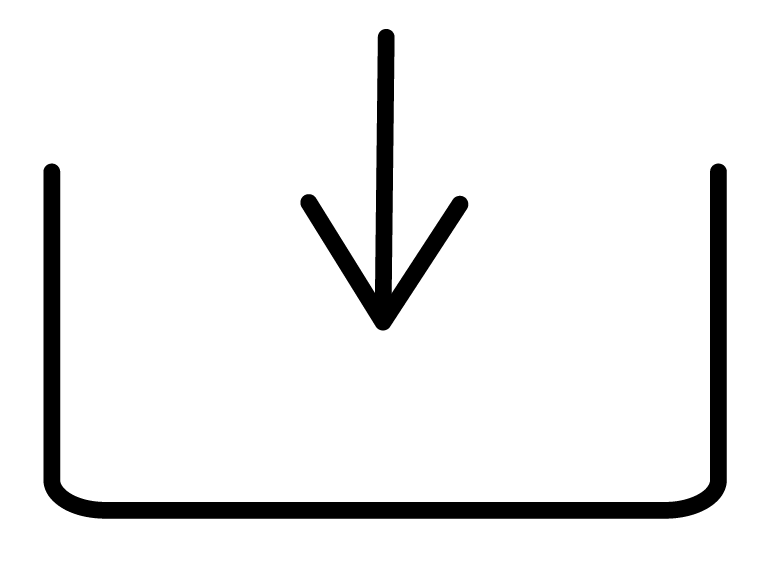
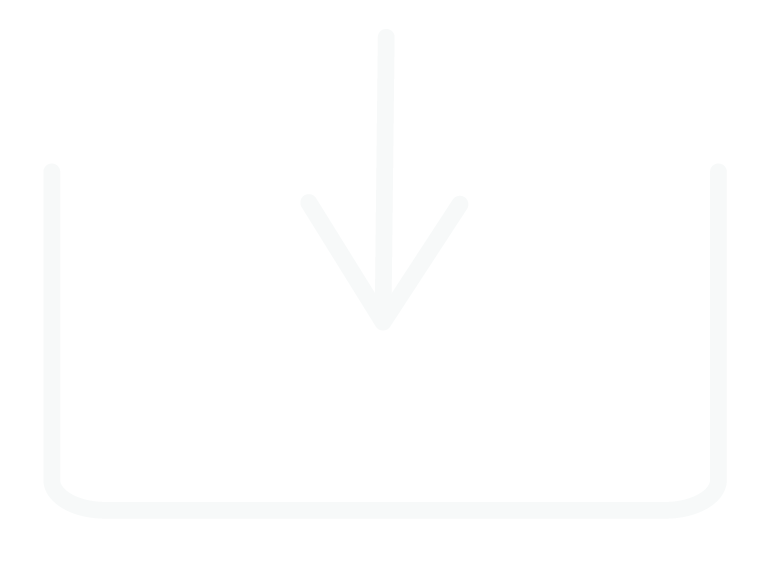
Eerste versie met kleur

Changed region(s): [[0.0301, 0.2718, 0.9621, 0.9361], [0.3908, 0.0302, 0.6314, 0.6039]]

diff --git a/src/pages/stations/[stationId].js b/src/pages/stations/[stationId].js
@@ -1,8 +1,6 @@
 import Image from 'next/image';
 import Free from '../../../public/Free.png';
 import Empty from '../../../public/Empty.png';
-import Back from '../../../public/Back.png';
-import Link from 'next/link';
 
 import useNetwork from '@/data/network';
 import {useRouter} from 'next/router';
@@ -39,16 +37,7 @@ export default function Home(){
               alt="Empty slots"
               />
               <p className={styles.Text}>Empty slots: {station.empty_slots}</p>
-            </div>
-
-            <Link href="/filter">
-              <button className={styles.BackButton}> 
-                <Image className={styles.Back}
-                src ={Back} 
-                alt="Back"
-                />
-              </button>
-            </Link>   
+            </div> 
 
             </div>
         </main>

diff --git a/src/styles/FilterStation.module.css b/src/styles/FilterStation.module.css
@@ -1,30 +1,3 @@
-.Header{
-    background-color: #D9D9D9;
-    padding: 1.5vw;
-    padding-left: 2vw;
-    padding-top: 2vw;
-}
-
-.Logo{
-    height: 13vw;
-    width: auto;
-}
-
-.BackButton {
-    padding: 1.5vw;
-    width: 20%;
-    text-decoration: none;
-    border: none;
-    border-radius: 2vw;
-    background-color: #D9D9D9;
-    margin-top: 6vw;
-}
-
-.Back{
-    width: 7.5vw;
-    height: auto;
-}
-
 .TussenTitels{
     font-size: 7vw;
     margin-top: 7.5vw;
@@ -44,10 +17,13 @@
     display: flex;
     align-items: center;
     justify-content: space-evenly;
-    background-color:#D9D9D9;
+    color: #F5F5F5;
+    background-color:#0362c7;
     margin-bottom: 4vw;
-    padding: 4vw;
+    padding: 2.5vw;
     border-radius: 4vw;
+    width: 65%;
+    margin-left: 15%;
 }
 
 .Free{

diff --git a/src/styles/Layout.module.css b/src/styles/Layout.module.css
@@ -3,7 +3,7 @@
     top: 0;
     left: 0;
     right: 0;
-    background-color: #F2DCE4;
+    background-color: #FFCE00;
     padding: 10px;
     display: flex;
     justify-content: space-between;
@@ -20,7 +20,7 @@
     bottom: 0;
     left: 0;
     right: 0;
-    background-color: #F2DCE4;
+    background-color: #FFCE00;
     padding: 10px;
     display: flex;
     justify-content: space-between;
@@ -44,11 +44,11 @@
 }
 
 .ButonLeft:focus{
-    color: #732727;
+    color: #F5F5F5;
     text-decoration: none;
 }
 
 .ButonRight:focus{
-    color: #732727;
+    color: #F5F5F5;
     text-decoration: none;
 }

diff --git a/src/styles/Help.module.css b/src/styles/Help.module.css
@@ -1,15 +1,3 @@
-.Header{
-    background-color: #D9D9D9;
-    padding: 1.5vw;
-    padding-left: 2vw;
-    padding-top: 2vw;
-}
-
-.Logo{
-    height: 13vw;
-    width: auto;
-}
-
 .TussenTitels{
     font-size: 5vw;
     margin-top: 7.5vw;
@@ -47,10 +35,12 @@
     border: none;
     border-radius: 2vw;
     font-size: 3.5vw;
-    background-color: #D9D9D9;
+    background-color: #0362c7;
+    color: #F5F5F5;
     margin-top: 8vw;
 }
 
 .SearchButton:hover{
-    background-color: #a8a8a8;
+    background-color: #007bff;
+    color: #F5F5F5;
 }

diff --git a/src/styles/Account.module.css b/src/styles/Account.module.css
@@ -5,10 +5,9 @@
 }
 
 .OnderTitels{
-    font-size: 4.5vw;
+    font-size: 4vw;
     text-align: center;
     margin-bottom: 2vw;
-    color: #757575;
 }
 
 .SearchBalk{
@@ -26,6 +25,12 @@
     border: none;
     border-radius: 2vw;
     font-size: 3vw;
-    background-color: #F29F05;
+    background-color: #0362c7;
+    color: #F5F5F5;
     margin-top: 8vw;
+}
+
+.SearchButton:hover{
+    background-color: #007bff;
+    color: #F5F5F5;
 }

diff --git a/src/styles/Home.module.css b/src/styles/Home.module.css
@@ -11,11 +11,13 @@
     border: none;
     border-radius: 2vw;
     font-size: 3.5vw;
-    background-color: #D9D9D9;
+    background-color: #0362c7;
+    color: #F5F5F5;
 }
 
 .SearchButton:hover{
-    background-color: #a8a8a8;
+    background-color: #007bff;
+    color: #F5F5F5;
 }
 
 .SwiperSlide {
@@ -38,7 +40,6 @@
     font-size: 2.3vw;
     color: #4d4d4d;
     margin-left: 3.5vw;
-
 }
 
 .HelpContainer{

diff --git a/src/styles/ButtonGroup.module.css b/src/styles/ButtonGroup.module.css
@@ -11,7 +11,8 @@
 .button {
   width: 100%;
   height: 100%;
-  background-color: #dcdcdc;
+  background-color: #0362c7;
+  color: #F5F5F5;
   border: none;
   border-radius: 5px;
   padding: 15px 15px;
@@ -20,5 +21,6 @@
 }
 
 .button:hover{
-  background-color: #a8a8a8;
+  background-color: #007bff;
+  color: #F5F5F5;
 }

diff --git a/src/styles/Stations.module.css b/src/styles/Stations.module.css
@@ -1,15 +1,3 @@
-.Header{
-    background-color: #D9D9D9;
-    padding: 1.5vw;
-    padding-left: 2vw;
-    padding-top: 2vw;
-}
-
-.Logo{
-    height: 13vw;
-    width: auto;
-}
-
 .TussenTitels{
     font-size: 5vw;
     margin-top: 7.5vw;
